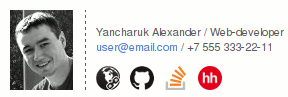
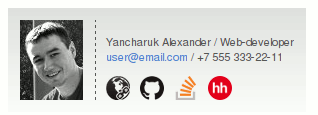
Added gradient background

diff --git a/signature.html b/signature.html
@@ -1,10 +1,17 @@
 <meta charset="UTF-8">
 <style>
 	table {
+		margin: 0;
+		padding: 10px;
 		table-layout: fixed;
 		font-family: Helvetica, Arial, sans-serif;
 		font-size: 11px;
 		color: #212121BB;
+		background: white; /* For browsers that do not support gradients */
+		background: -webkit-linear-gradient(180deg, #e0e0e0, #fcfcfc); /* For Safari 5.1 to 6.0 */
+		background: -o-linear-gradient(180deg, #e0e0e0, #fcfcfc); /* For Opera 11.1 to 12.0 */
+		background: -moz-linear-gradient(180deg, #e0e0e0, #fcfcfc); /* For Firefox 3.6 to 15 */
+		background: linear-gradient(180deg, #e0e0e0, #fcfcfc); /* Standard syntax */
 	}
 
 	td {
@@ -21,7 +28,6 @@
 	.photo {
 		margin-right: 10px;
 		border: none;
-		/*border-radius: 3px;*/
 		width: 63px;
 		height: 80px;
 	}
